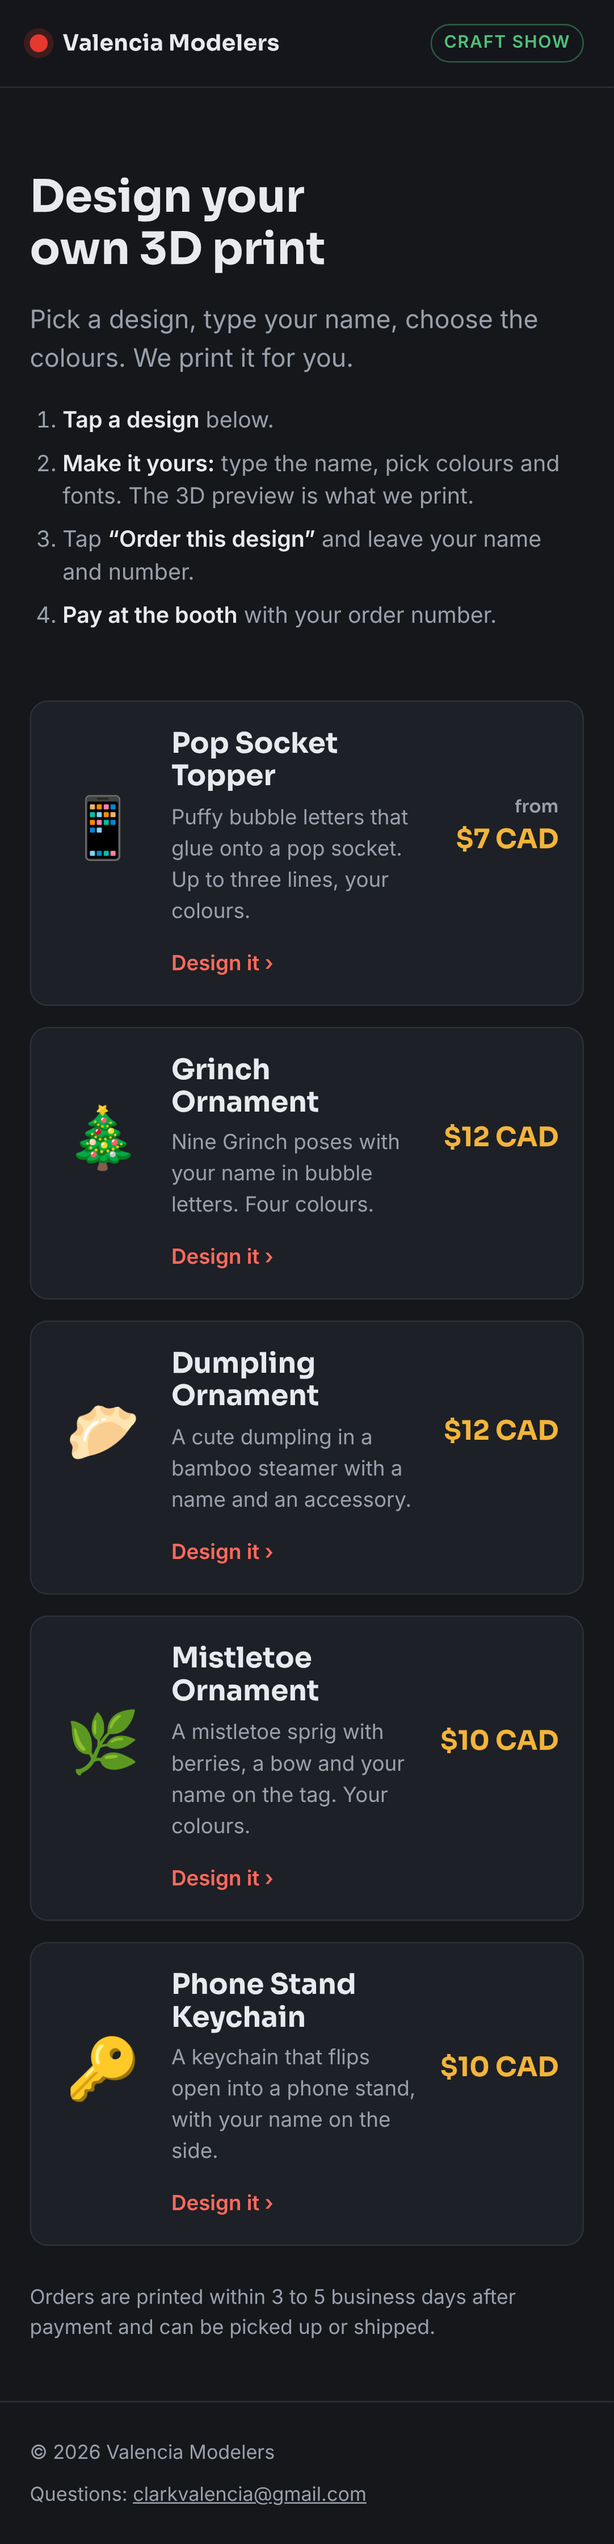
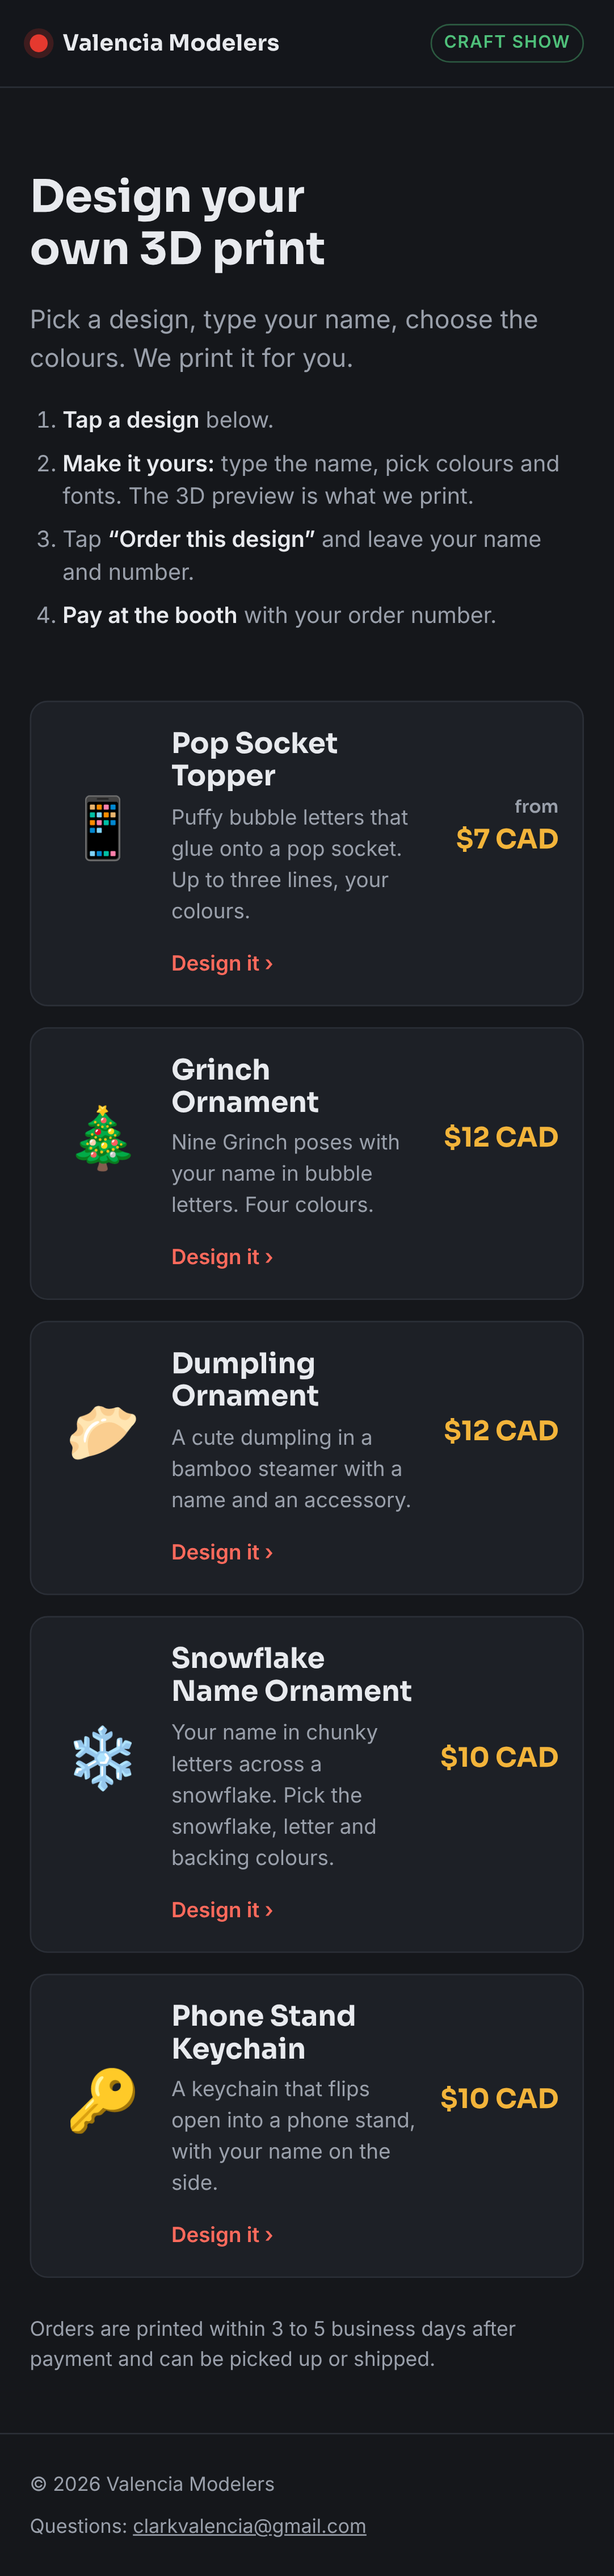
Craft show: the Name Ornament (snowflake) is the ornament tile, not the mistletoe
Adds clarkstyx/name-ornaments to the hub (Seller, Seasonal) and puts it on the
show tiles. The mistletoe modeler stays in the hub but is off the show list.

Claude-Session: https://claude.ai/code/session_01SZsc6YDuXEDcC3pTQ6x7WZ

diff --git a/vendor/docs/name-ornaments/README.md b/vendor/docs/name-ornaments/README.md
@@ -1,0 +1,44 @@
+# Name Ornaments
+
+Personalised Christmas **name ornaments**: a name in chunky letters joined across a **snowflake**,
+on a backing that follows both outlines, with a hanging loop on the top arm. Layered colours, printed
+flat, exported as a colour-ready 3MF for Bambu Studio / OrcaSlicer.
+
+One of the Valencia Modelers (`clarkstyx/name-ornaments`). More ornament shapes (candy cane with
+bow, wreath, tree) are planned here next to the snowflake.
+
+## What it makes
+
+- **Name**: any name; the letters are as big as you allow and shrink by themselves until the name
+  fits across the snowflake (refused below 6 mm capitals, a warning below 9 mm). Puffy letters
+  (every stroke thickened), an optional arch, and an outline of backing colour round the letters so
+  the name reads against the snowflake.
+- **Snowflake**: three styles (classic, simple, frosty), any size, arm width.
+- **Layers**: backing (3 mm), snowflake raised 1.2 mm, name raised 2.4 mm, each its own part and
+  colour. The backing never has holes: letter counters and gaps are filled.
+- **Loop**: a ring on the top arm with a 4 mm hole for ribbon or a hook (or none).
+- **Batch**: a list of names makes one ornament each, packed on plates that fit the bed. One 3MF per
+  plate (settings embedded so the file reopens here), STL, or every plate in a ZIP.
+
+## Run
+
+```bash
+npm install
+npm run dev        # http://localhost:5191
+npm test           # vitest: parts, layers, no overlaps, shrinking, refusals, batch, 3MF, settings
+npm run validate   # every preset and edge case, writes out/*.3mf
+npm run build      # production build (the hub can run vite build --base=/m/name-ornaments/)
+```
+
+## How it is built
+
+`src/core/layout.ts` places the name's letters (shrunk to fit, bent into an arch).
+`src/geometry/buildOrnament.ts` draws the snowflake from round-ended strokes, thickens the letters,
+grows the backing round both, cuts the snowflake back from the letters, adds the loop and lifts each
+outline into a solid on **manifold-3d**. Every outline is cleaned of needle spikes and pinch points
+before export, and every mesh is checked watertight. All of it runs in a Web Worker.
+
+## Printing
+
+Flat as placed, no supports, 0.2 mm layers. Colours change where the snowflake starts (3 mm) and
+where the name rises above it (4.2 mm); the AMS does it from the 3MF. Not yet printed.

diff --git a/vendor/docs/name-ornaments/CLAUDE.md b/vendor/docs/name-ornaments/CLAUDE.md
@@ -1,0 +1,39 @@
+# Name Ornaments — notes for Claude Code
+
+Personalised name ornaments: a name in chunky letters across a snowflake, layered colours, hanging
+loop. One of Clark's Valencia Modelers; built the same way as `clarkstyx/checklist-tag`. More shapes
+(candy cane with bow, wreath, tree) are planned in this repo. Clark is a beginner programmer who
+vibe-codes: explain in plain words, keep changes small, and verify in the browser.
+
+## Layout
+
+- `src/core/` parameters (`params.ts`: `OrnamentParams`, names list, hole position), `layout.ts`
+  (letters shrunk to fit and arched; no geometry kernel), presets (`presets.ts`), settings file
+  round-trip (`recipe.ts`), checks (`validateParams.ts`).
+- `src/geometry/buildOrnament.ts` manifold-3d builder: snowflake from strokes, thickened name, backing
+  grown round both (holes filled), snowflake cut back from the name, loop; `tidy` removes needle
+  spikes and pinch points (the 3MF's position rounding would weld them into non-watertight edges);
+  `thinShare` warns when a part is thinner than the nozzle; one ornament per name packed on plates.
+- `src/pipeline/` runs everything in a Web Worker; `generate.ts` validates every mesh and blocks
+  export on errors.
+- `src/ui/` React sidebar (`App.tsx`) and the three.js preview.
+- `src/shared/` is a **copy** of the hub's `packages/geometry/src/` (kernel, shapes, mesh checks,
+  3MF/STL, text). Each file says so in its header. Shared fixes belong in the hub package first;
+  then copy the changed files here so the copies stay the same.
+
+## Conventions
+
+- Lengths are millimetres everywhere.
+- Parts never overlap, every exported mesh is watertight, colours become 3MF filament slots
+  (BASE, SNOWFLAKE, NAME).
+- Prints flat; the backing is solid and the colours change only in the raised layers.
+- Not yet verified by a print.
+
+## Commands
+
+```bash
+npm install
+npm run dev        # http://localhost:5191
+npm run check      # typecheck + vitest + build
+npm run validate   # every preset and edge case, writes out/*.3mf
+```
